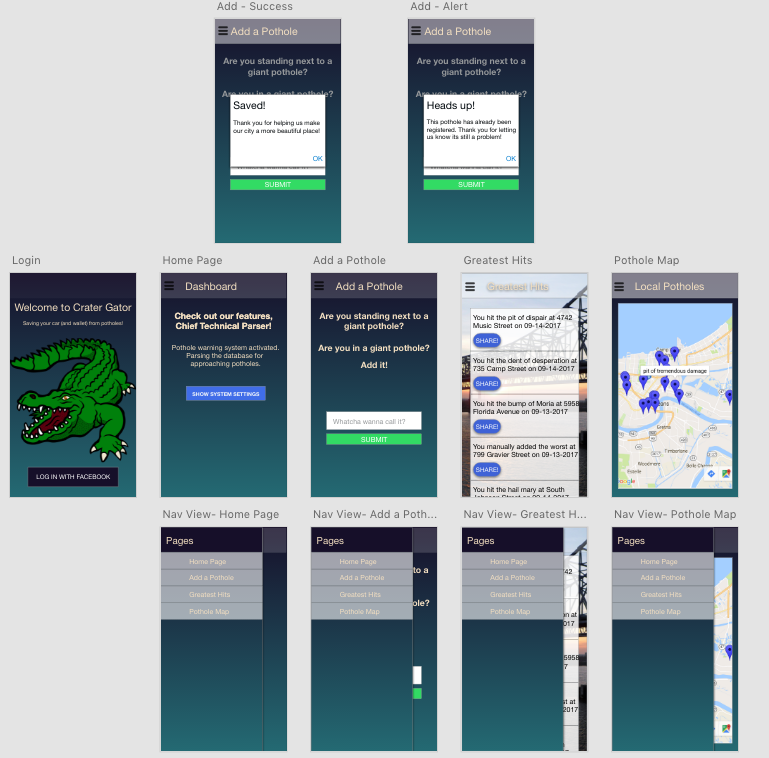
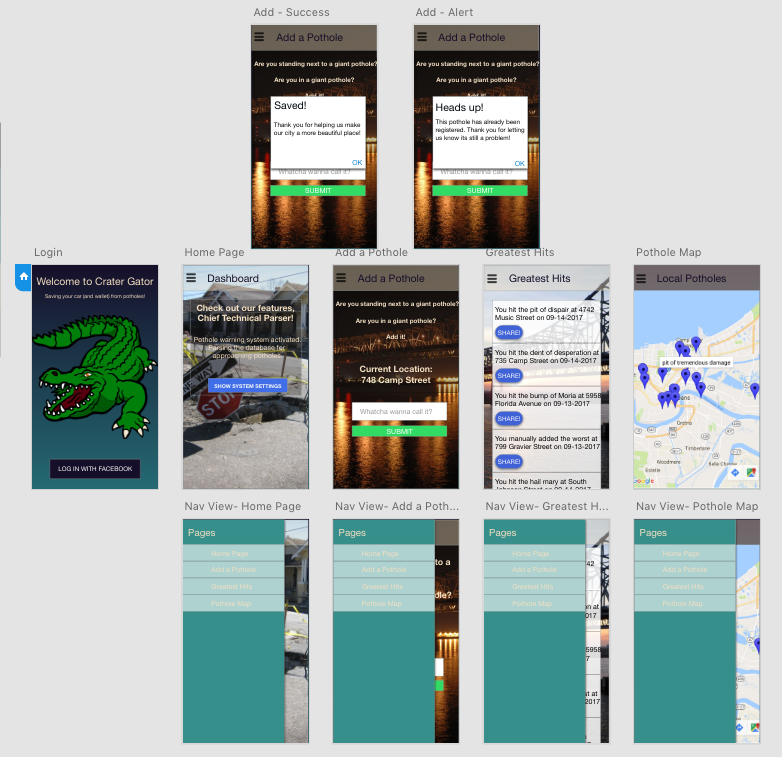
[update]backgrounds

diff --git a/src/pages/homepage/homepage.html b/src/pages/homepage/homepage.html
@@ -8,15 +8,14 @@
 </ion-header>
 
 <ion-content class="body" padding>
-  <h1>Check out our features, {{ user }}!</h1>
-  Pothole warning system activated. Parsing the database for approaching potholes.
-  <button (click)="showSettings = !showSettings" ion-button icon-start>
-    <ion-icon name="settings"></ion-icon>
-    Show System Settings
-  </button>
-  <div *ngIf="showSettings">
-    <button (click)="forReal = !forReal" ion-button round color="danger">
-      Only Click If Authorized User
+  <div class="description">
+    <h1>Check out our features, {{ user }}!</h1>
+    <br />
+    <p>Pothole warning system activated. Parsing the database for approaching potholes.</p>
+    <br />
+    <button (click)="showSettings = !showSettings" ion-button icon-start>
+      <ion-icon name="settings"></ion-icon>
+      Show System Settings
     </button>
     <div *ngIf="forReal">
       <h2>DO THE NOLA SHAKE!</h2>
@@ -52,4 +51,6 @@
       <button ion-button full (click)="makeFake([15, 12.5, 45])">Make Fake</button>
     </div>
   </div>
+
+
 </ion-content>

diff --git a/src/pages/homepage/homepage.scss b/src/pages/homepage/homepage.scss
@@ -4,11 +4,15 @@ page-homepage {
     color: #F3DFC1;
   }
   .body {
-    background: #160F29; /* For browsers that do not support gradients */
-    background: -webkit-linear-gradient(#160F29, #246A73); /* For Safari 5.1 to 6.0 */
-    background: -o-linear-gradient(#160F29, #246A73); /* For Opera 11.1 to 12.0 */
-    background: -moz-linear-gradient(#160F29, #246A73); /* For Firefox 3.6 to 15 */
-    background: linear-gradient(#160F29, #246A73); /* Standard syntax */
+    background-image: url('../assets/images/pothole.jpg');
+    background-attachment: fixed;
+    background-repeat: no-repeat;
+    background-size: 100% 100%;
     color: #F3DFC1;
+    text-align: center;
   }
+
+.description {
+  background-color: rgba(22, 15, 41, 0.6);
+}
 }

diff --git a/src/pages/login/login.scss b/src/pages/login/login.scss
@@ -29,11 +29,11 @@ page-login {
     height: 300px;
   }
   .animated {
-    animation-name: pulse;
+    animation-name: tada;
     -webkit-animation-iteration-count: infinite;
     animation-iteration-count: infinite;
-    -webkit-animation-duration: 5s;
-    animation-duration: 5s;
+    -webkit-animation-duration: 3s;
+    animation-duration: 3s;
   }
 }
 

diff --git a/src/pages/manual-entry/manual-entry.html b/src/pages/manual-entry/manual-entry.html
@@ -8,7 +8,7 @@
 </ion-header>
 
 <ion-content padding class="body">
-  <div style="background-color: rgba(22, 15, 41, 0.4)">
+  <div class="descriptor">
     <p>Are you standing next to a giant pothole?</p>
     <p>Are you in a giant pothole?</p>
     <p>Add it!</p>

diff --git a/src/app/app.component.ts b/src/app/app.component.ts
@@ -18,7 +18,7 @@ import { SplashScreen } from '@ionic-native/splash-screen';
 export class MyApp {
   @ViewChild(Nav) nav: Nav;
 
-  rootPage = LoginPage;
+  rootPage = Homepage;
   pages: Array<{title: string, component: any}>;
 
   constructor(

diff --git a/src/pages/manual-entry/manual-entry.scss b/src/pages/manual-entry/manual-entry.scss
@@ -8,4 +8,7 @@ page-manual-entry {
     text-align: center;
     font-size: 120%;
   }
+  .descriptor {
+    background-color: rgba(22, 15, 41, 0.4);
+  }
 }

diff --git a/README.md b/README.md
@@ -40,8 +40,8 @@ Want to see all the potholes in the city? Check out the Pothole Map for a bird's
 
 ## Schema
 ![Schema](images/schema.png)
-## Contributing
 
+## Contributing
 See [CONTRIBUTING.md](CONTRIBUTING.md) for contribution guidelines.
 
 
